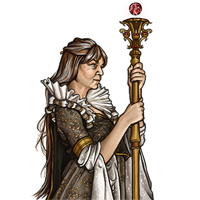
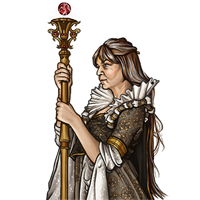
Improved the proof-of-concept of the new dialogs. - added left and right side image support and added them to the test scenario. - allow images the 200 x 200 image to be 250 x 250. - added a mutulated shyde. - mirrored the arch mage.
git-svn-id: http://svn.gna.org/svn/wesnoth/trunk@27682 75b3775d-3801-0410-9e12-e2e43121521d

diff --git a/src/game_events.cpp b/src/game_events.cpp
@@ -1889,11 +1889,25 @@ namespace {
 	// Test function to show the new message dialog.
 	// NOTE this event is undocumented since it's only added as test hack and will
 	// be removed without further notice.
-	WML_HANDLER_FUNCTION(message_test,/*handler*/,/*event_info*/,cfg)
+	WML_HANDLER_FUNCTION(message_test_left,/*handler*/,/*event_info*/,cfg)
 	{
 		const std::string message = cfg["message"];
 		gui2::init();
-		gui2::twindow window = gui2::build((*screen)->video(), "message_test");
+		gui2::twindow window = gui2::build((*screen)->video(), "message_test_left");
+
+		gui2::tcontrol* label = dynamic_cast<gui2::tcontrol*>(window.find_widget("message", false));
+		assert(label);
+		label->set_label(message);
+
+		window.recalculate_size();
+		window.show();
+	}
+
+	WML_HANDLER_FUNCTION(message_test_right,/*handler*/,/*event_info*/,cfg)
+	{
+		const std::string message = cfg["message"];
+		gui2::init();
+		gui2::twindow window = gui2::build((*screen)->video(), "message_test_right");
 
 		gui2::tcontrol* label = dynamic_cast<gui2::tcontrol*>(window.find_widget("message", false));
 		assert(label);
